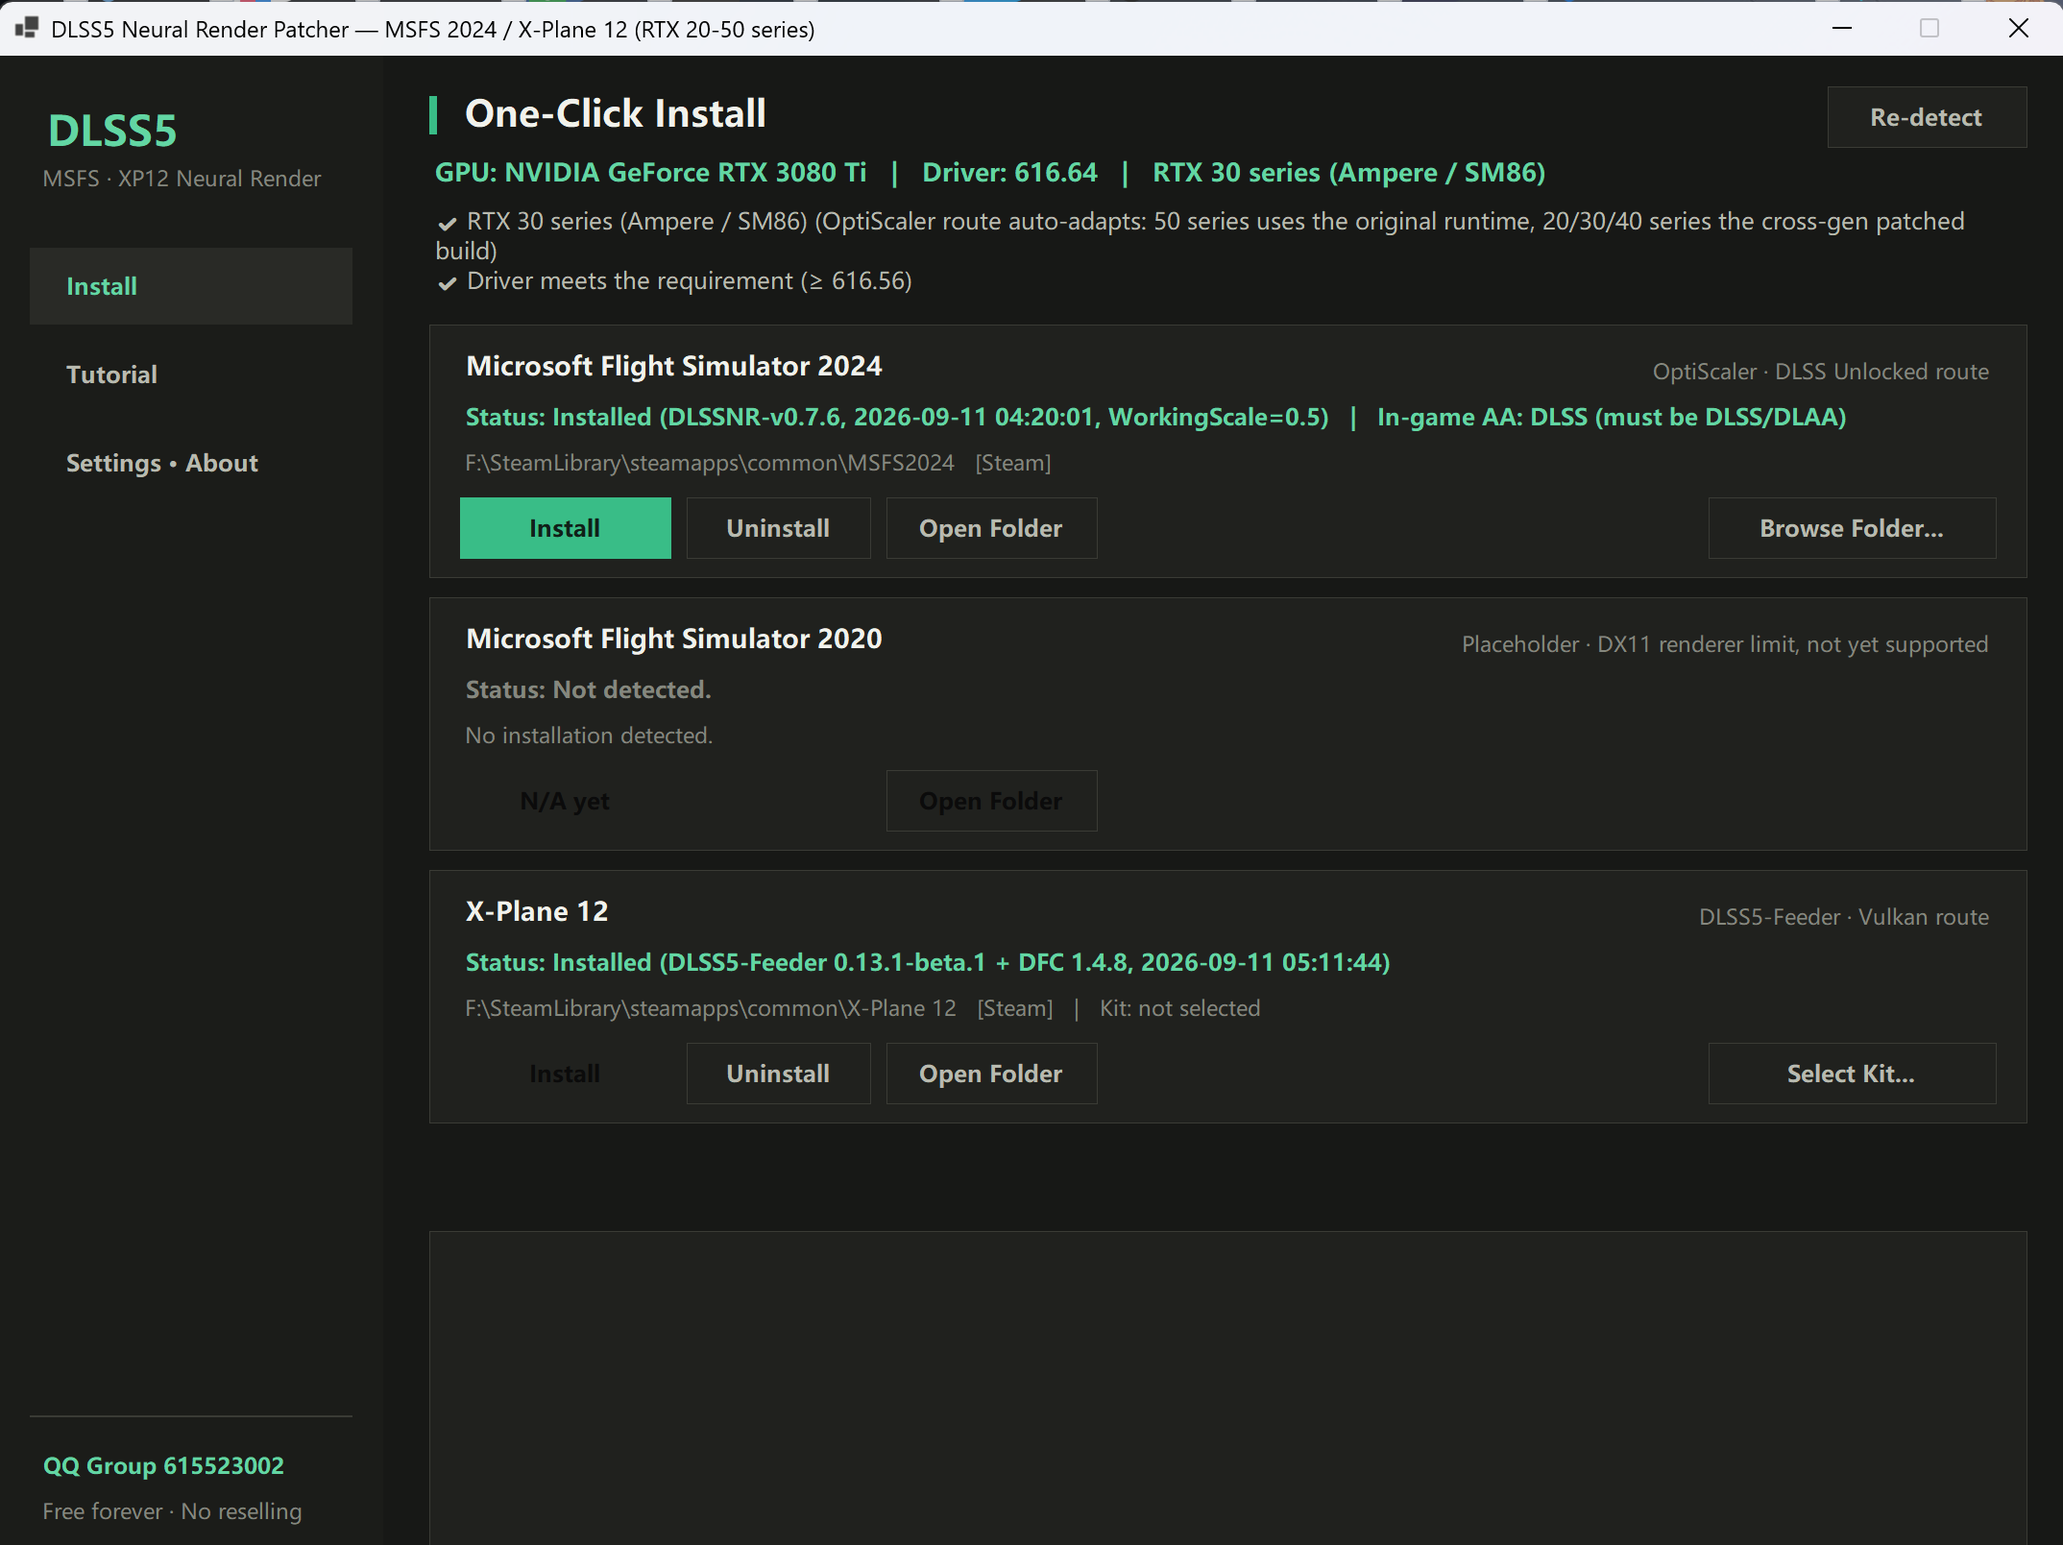
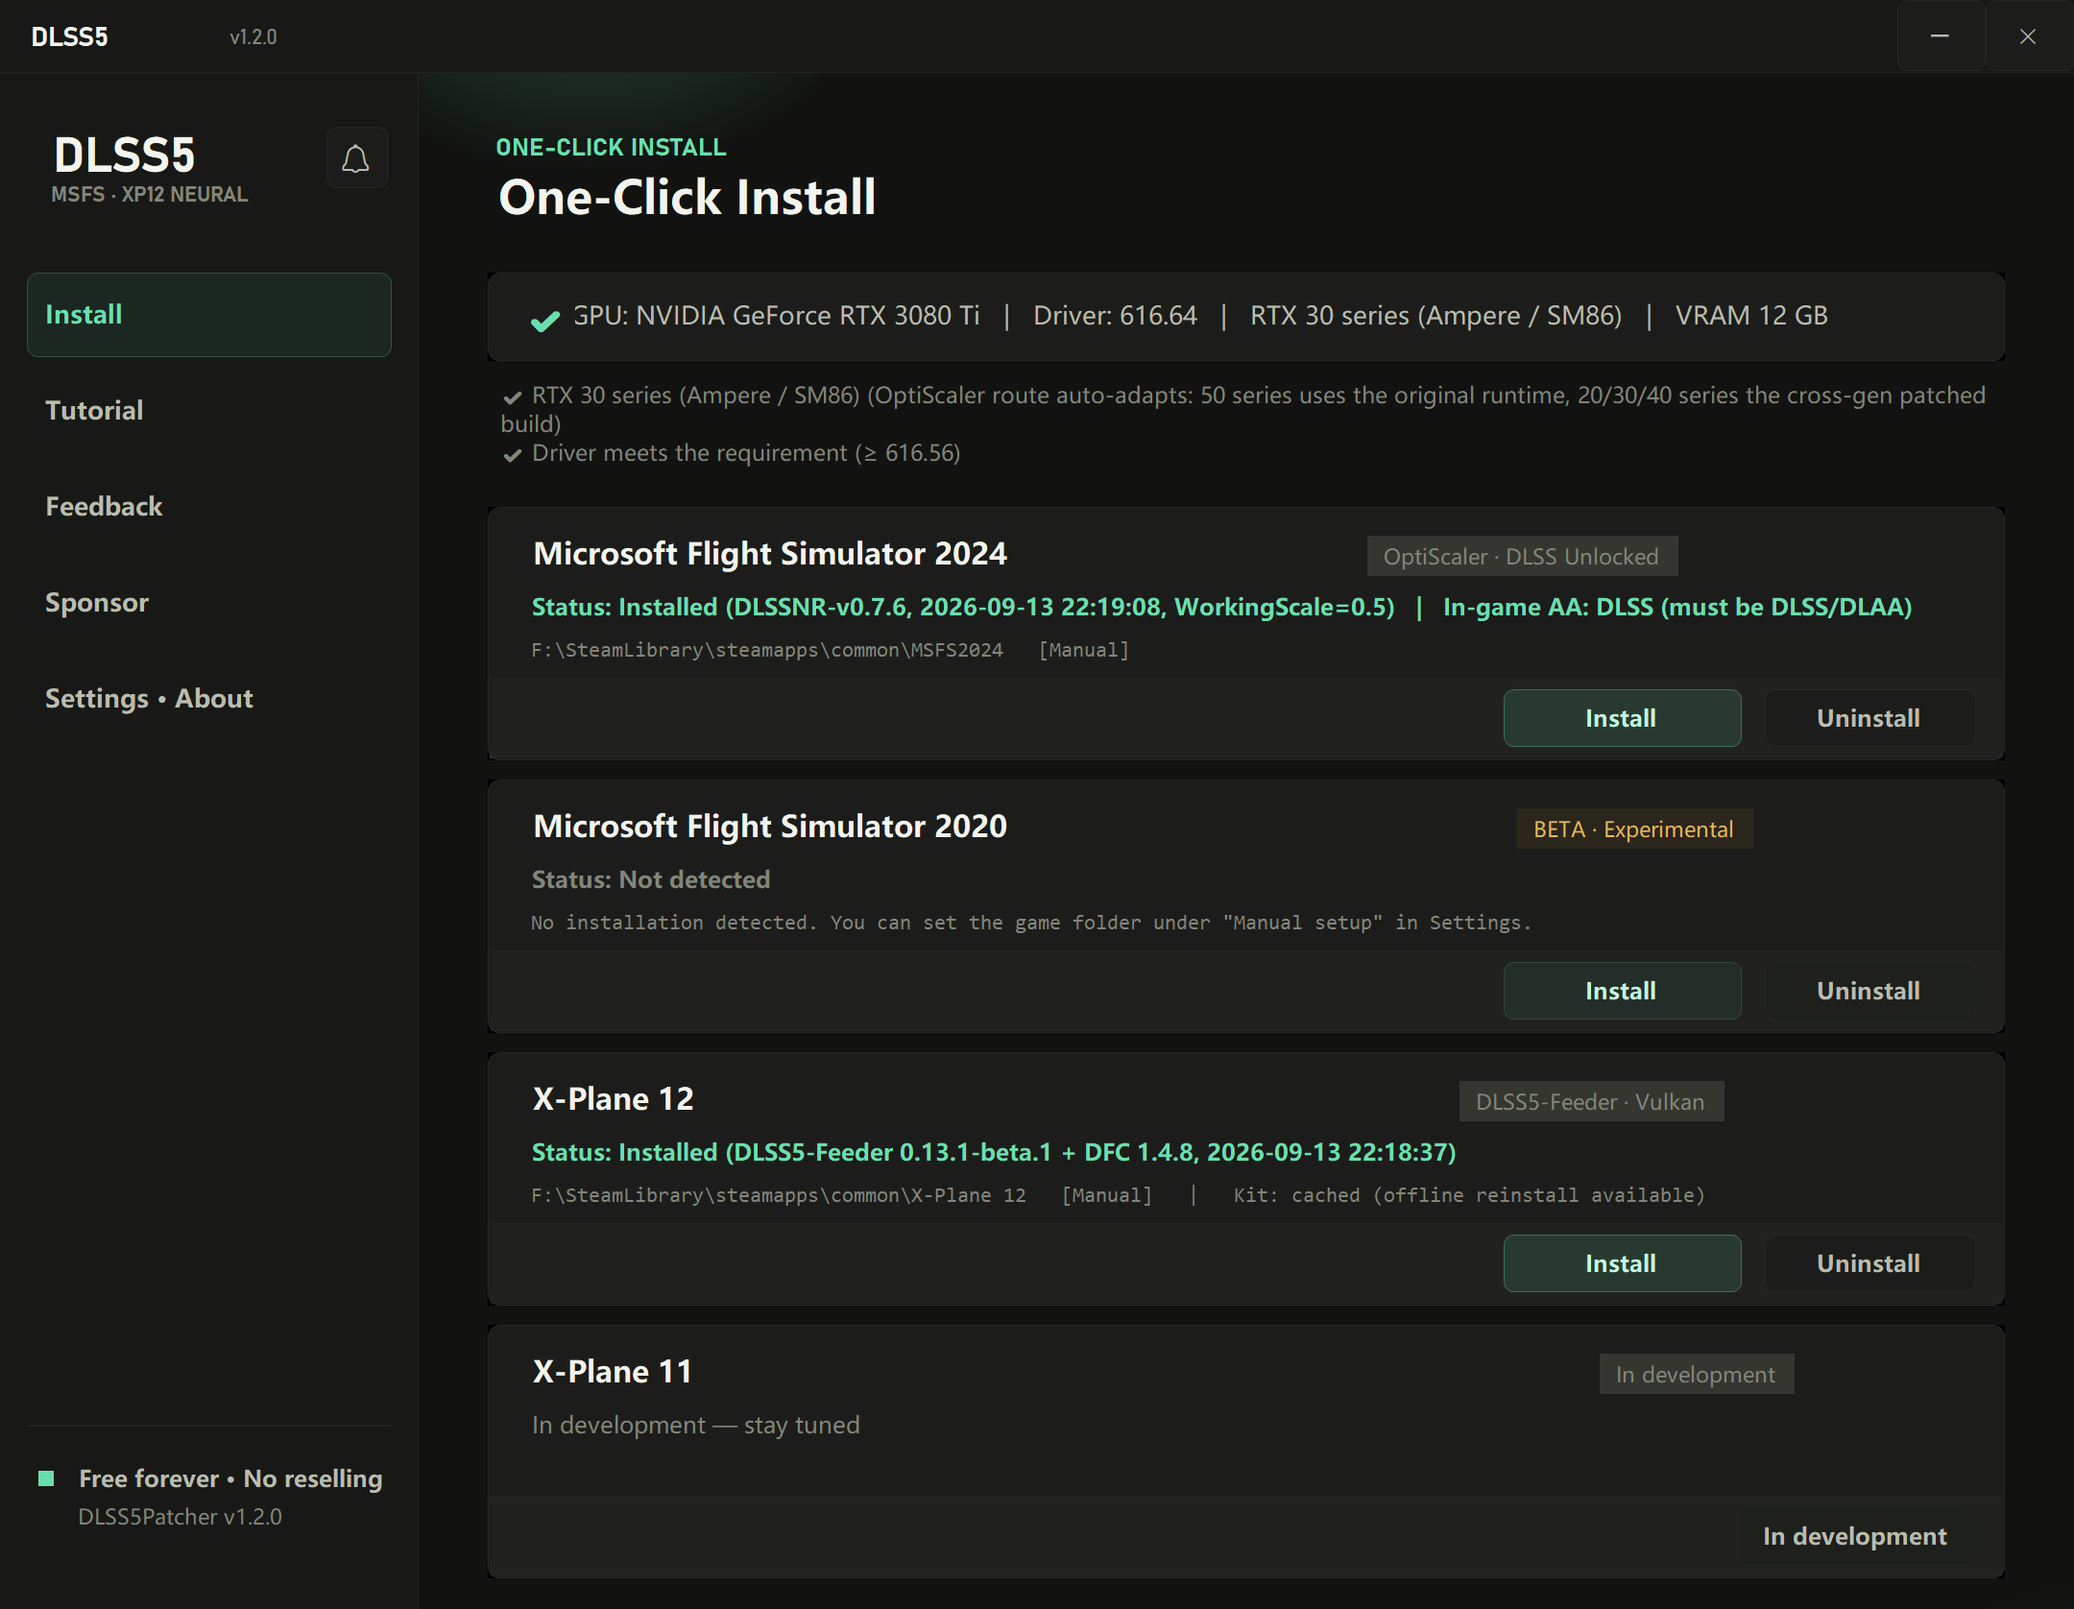
v1.2.0: refresh READMEs with new screenshots + feedback/announcements features; hidden DLSS5_STARTUP_PAGE env for doc captures

diff --git a/src/DLSS5Patcher/MainForm.cs b/src/DLSS5Patcher/MainForm.cs
@@ -71,6 +71,10 @@ public sealed class MainForm : Theme.DpiScaledForm
         WireEvents();
 
         SelectNav(0);
+        // 隐藏调试入口：DLSS5_STARTUP_PAGE=N 直接以第 N 页启动（文档截图用，不进 CLI）
+        if (int.TryParse(Environment.GetEnvironmentVariable("DLSS5_STARTUP_PAGE"), out var startPage)
+            && startPage is >= 0 and <= 5)
+            SelectNav(startPage);
         _ = RefreshAsync();
 
         Updater.CleanLeftovers();

diff --git a/README.en.md b/README.en.md
@@ -10,20 +10,32 @@ English | [简体中文](README.md)
 
 ---
 
-Official DLSS neural rendering (transformer models + Neural Rendering) ships only with RTX 50 series. This project brings the **neural-rendering pass** to every RTX GPU from the 20-series up, packaged as a **bilingual (Chinese/English), single-EXE, portable** patcher.
+Official DLSS neural rendering (transformer models + Neural Rendering) ships only with RTX 50 series. This project brings the **neural-rendering pass** to every RTX GPU from the 20-series up, packaged as a **bilingual (Chinese/English), single-EXE, portable** patcher. It ships with an **in-app feedback system** (query status by feedback code), **announcements**, a detailed **tutorial** and **auto-update**.
 
 ![Home](docs/screenshots/home-en.png)
 
 ## ✨ Features
 
 - 🎮 **Three game cards**: MSFS 2024 / MSFS 2020 (Beta) / X-Plane 12 — each card keeps just two buttons: Install and Uninstall
+- 🆘 **In-app feedback**: run log + install manifests are attached automatically, screenshots and a username optional; you get a feedback code (auto-copied) to track status and read the admin reply anytime
+- 📢 **Announcement system**: announcements page + startup popups for critical notices
 - 🌐 **Bilingual UI**: pick your language on first launch, switch anytime in Settings
-- 📦 **Ultra-lightweight + server distribution**: the app itself is only ~70MB (zero embedded packages); installs auto-download packages from our own server (server → GitHub → mirror failover, resumable transfers, SHA256-verified), cached locally for offline reinstalls
-- 🔄 **Auto-update**: checks GitHub Releases on launch and force-updates when a new version exists (mirror fallback + slow-transfer watchdog for both check and download, SHA256-verified, automatic swap & restart)
-- 🖥 **Dark card-style UI**, native WinForms single EXE (~510 MB, self-contained), high-DPI / 4K ready
+- 📦 **Ultra-lightweight + server distribution**: the app itself is only ~72MB (zero embedded packages); installs auto-download packages from our own server (server → GitHub → mirror failover, resumable transfers, SHA256-verified), cached locally for offline reinstalls
+- 🔄 **Auto-update**: force-updates when a new version exists (multi-source download, SHA256-verified, slow-transfer watchdog, automatic swap & restart)
+- 🖥 **Dark card-style UI**, native WinForms single EXE (~72MB, self-contained); drag freely between monitors with different DPI scales — window size and fonts adapt
 - 🔒 **Safe & reversible**: installs back up every modified file and config; uninstall restores everything — saves and add-ons are never touched
 - 🧠 **Per-GPU-generation auto-tuning** of the NR runtime and defaults; RTX 50 series automatically gets NVIDIA's original runtime
 - 🧰 **GUI + CLI** in one binary (script/CI friendly)
+
+## 🖼 Screenshots
+
+| Tutorial | Feedback |
+|---|---|
+| ![Tutorial](docs/screenshots/tutorial-zh.png) | ![Feedback](docs/screenshots/feedback-zh.png) |
+
+| Settings · About | Announcements |
+|---|---|
+| ![Settings](docs/screenshots/settings-en.png) | ![Announcements](docs/screenshots/announcements-zh.png) |
 
 ## 🎮 Supported games & routes
 
@@ -36,15 +48,15 @@ Official DLSS neural rendering (transformer models + Neural Rendering) ships onl
 ## 🚀 Getting started
 
 1. Download `DLSS5Patcher.exe` from [Releases](../../releases) (or build it yourself), right-click → **Run as administrator**
-2. Choose your interface language on first launch
+2. Choose your interface language on first launch and scroll through the license agreement
 3. The tool auto-detects your GPU, driver and game folders (Steam / Microsoft Store, with manual browse as a fallback)
-4. **MSFS 2024**: click Install on its card (package is embedded — no internet needed, takes about a minute)
-5. **X-Plane 12**: click Select Kit... and point it at a DLSS5-Feeder kit folder, then click Install
+4. **MSFS 2024**: click Install on its card (the ~440MB package auto-downloads on first install with multi-source failover; cached locally afterwards), takes about a minute
+5. **X-Plane 12**: just click Install (the ~150MB kit auto-downloads)
 6. Verify in game:
    - MSFS 2024: press `Insert` → OptiScaler menu → DLSS Neural Rendering should show `Running - xx ms per frame`; set the game's Anti-Aliasing to **DLSS/DLAA**
    - X-Plane 12: press `Home` → verify MotionEstimation and DLSS5_Feed are enabled → the Deep Fried Chicken tab should show `standalone neural pipeline active`
 
-> 📖 The in-app Tutorial page has detailed step-by-step instructions (including what to send the author when something goes wrong).
+> 📖 The in-app Tutorial page has detailed step-by-step instructions. Run into a problem? Use the in-app **Feedback** page — logs are attached automatically and you can track progress with your feedback code.
 
 ## ⌨ Command line
 
@@ -79,7 +91,7 @@ Official ReShade framework headers (ReShade.fxh etc.) are added automatically by
 - XP12: motion vectors are shader-estimated — fast camera moves show brief ghosting
 - XP12 needs the `--allow_reshade` launch parameter (prevents the game from blocking the layer)
 - 8GB-VRAM cards may crash with VRAM overflow while DLSS5 is on (the game's own memory pressure): the installer auto-recommends WorkingScale by VRAM (8GB → 0.5, smaller → 0.35); lower it in Settings and reinstall if it still overflows
-- RTX 40/50 adaptation logic has not been widely verified on physical cards — feedback welcome
+- RTX 40/50 adaptation logic has not been widely verified on physical cards — report your results via the in-app Feedback page
 - ⚠ Do NOT accept the "Update available" prompt in the OptiScaler menu (the mainline build has no neural rendering)
 
 ## 🧠 How it works
@@ -103,7 +115,7 @@ Requirements: .NET 8 SDK (`net8.0-windows` + WinForms), Windows 10/11 only.
 > See `server/DEPLOY.md` for the server layout; build the XP12 kit with `tools/make_kit_zip.py` (then sync its SHA256 into `Core/PackageCatalog.cs`).
 > Override the primary source via the `DLSS5_REPO` env var or a `repo=` line in the config file (testing/emergency). Most users should simply grab a ready-made EXE from [Releases](../../releases).
 
-Code layout: `MainForm.cs` (shell + business logic), `Ui/Theme.cs` (design tokens & control factory), `Ui/HomePage.cs` (game cards + log), `Ui/TutorialPage.cs`, `Ui/AboutPage.cs`, `Ui/LanguageDialog.cs` (first-run language picker), `Core/` (installers, game locator, localization helper and config).
+Code layout: `MainForm.cs` (shell + business logic), `Ui/Theme.cs` (design tokens & control factory), `Ui/HomePage.cs` (game cards + detection), `Ui/TutorialPage.cs`, `Ui/FeedbackPage.cs` (feedback), `Ui/AnnouncementsPage.cs` (announcements), `Ui/SponsorPage.cs`, `Ui/AboutPage.cs`, `Ui/LanguageDialog.cs` (first-run language picker), `Core/` (installers, game locator, announcement/feedback clients, localization helper and config); `server/` (distribution + CMS/feedback API).
 
 ## ⚖ Statement
 

diff --git a/README.md b/README.md
@@ -10,20 +10,32 @@
 
 ---
 
-官方 DLSS 神经渲染（DLSS 4/5 transformer 模型 + Neural Rendering）只随 RTX 50 系提供。本项目通过社区方案把**神经渲染 pass** 带到 20–50 系全部 RTX 显卡，并做成一个**中文/英文双语、单 EXE、无需安装**的图形化补丁工具。
+官方 DLSS 神经渲染（DLSS 4/5 transformer 模型 + Neural Rendering）只随 RTX 50 系提供。本项目通过社区方案把**神经渲染 pass** 带到 20–50 系全部 RTX 显卡，并做成一个**中文/英文双语、单 EXE、无需安装**的图形化补丁工具。内置**问题反馈**（反馈码查询处理进度）、**公告**、**使用教程**与**自动更新**。
 
 ![首页](docs/screenshots/home-zh.png)
 
 ## ✨ 特性
 
 - 🎮 **三张游戏卡片**：MSFS 2024 / MSFS 2020（Beta 实验版）/ X-Plane 12，每张卡片只保留「一键安装」「一键卸载」，极简操作
+- 🆘 **软件内问题反馈**：自动附带运行日志与安装清单，可加截图与用户名；提交后获得反馈码（自动复制），凭码随时查询处理进度与管理员回复
+- 📢 **公告系统**：公告页 + 启动弹窗，重要提醒（如主菜单滤镜警告）精准触达
 - 🌐 **中英双语**：首次启动选择语言，设置页可随时切换
-- 📦 **极致轻量 + 服务器分发**：本体仅约 70MB（零内嵌包体）；安装时自动从自有服务器下载组件包（服务器 → GitHub → 镜像多源容灾、断点续传、SHA256 校验），下载后本地缓存、可离线重装
-- 🔄 **自动更新**：启动时自动检查 GitHub Release，发现新版本强制更新（检查与下载均带镜像兜底 + 限速看门狗，下载全程 SHA256 校验，完成后自动替换重启）
-- 🖥 **深色卡片式 UI**，原生 WinForms 单 EXE（约 510 MB，自包含），4K / 高 DPI 缩放已适配
+- 📦 **极致轻量 + 服务器分发**：本体仅约 72MB（零内嵌包体）；安装时自动从自有服务器下载组件包（服务器 → GitHub → 镜像多源容灾、断点续传、SHA256 校验），下载后本地缓存、可离线重装
+- 🔄 **自动更新**：启动时自动检查更新，发现新版本强制更新（多源下载 + SHA256 校验 + 限速看门狗，完成后自动替换重启）
+- 🖥 **深色卡片式 UI**，原生 WinForms 单 EXE（约 72MB，自包含）；多显示器不同 DPI 缩放间自由拖动，尺寸/字体自适应
 - 🔒 **安全可回滚**：安装自动备份被修改的文件与配置，卸载一键还原；卸载不影响存档与插件
 - 🧠 **按 GPU 世代自动适配** NR runtime 与默认参数；RTX 50 系自动切换 NVIDIA 原版 runtime
 - 🧰 **图形界面 + 命令行** 双模式（CI / 脚本友好）
+
+## 🖼 界面预览
+
+| 使用教程 | 问题反馈 |
+|---|---|
+| ![使用教程](docs/screenshots/tutorial-zh.png) | ![问题反馈](docs/screenshots/feedback-zh.png) |
+
+| 设置 / 关于 | 公告 |
+|---|---|
+| ![设置/关于](docs/screenshots/settings-zh.png) | ![公告](docs/screenshots/announcements-zh.png) |
 
 ## 🎮 支持游戏与路线
 
@@ -36,15 +48,15 @@
 ## 🚀 使用方法
 
 1. 前往 [Releases](../../releases) 下载 `DLSS5Patcher.exe`（或自行构建），右键**以管理员身份运行**
-2. 首次启动选择界面语言（中文 / English）
+2. 首次启动选择界面语言（中文 / English），并滚动阅读用户协议
 3. 工具自动检测 GPU、驱动与游戏目录（Steam / 微软商店均可，也可手动指定）
-4. **MSFS 2024**：直接点卡片上的「一键安装」（组件包已内置，无需联网，全程约 1-2 分钟）
-5. **X-Plane 12**：先点「选择组件包...」选中 DLSS5-Feeder 组件包目录，再点「一键安装」
+4. **MSFS 2024**：直接点卡片上的「一键安装」（首次自动下载组件包约 440MB，多源容灾；之后本地缓存可离线重装），全程约 1-2 分钟
+5. **X-Plane 12**：同样直接「一键安装」（组件包约 150MB 自动下载）
 6. 游戏内验证：
    - MSFS 2024：`Insert` 键 → OptiScaler 菜单 → DLSS Neural Rendering 应显示 `Running - xx ms per frame`；游戏抗锯齿需设为 **DLSS/DLAA**
    - X-Plane 12：`Home` 键 → 确认 MotionEstimation 与 DLSS5_Feed 已启用 → Deep Fried Chicken 标签页显示 `standalone neural pipeline active`
 
-> 📖 更详细的图文教程请看软件内「使用教程」页（含出问题时应提交的文件清单）。
+> 📖 更详细的图文教程请看软件内「使用教程」页。遇到问题？用左侧「问题反馈」直接提交（自动附带日志），凭反馈码可查询处理进度。
 
 ## ⌨ 命令行模式
 
@@ -79,7 +91,7 @@ ReShade 官方框架头文件（ReShade.fxh 等）工具会自动补齐。
 - XP12：运动矢量为着色器估算，快速移动视角有短暂重影
 - XP12 需 `--allow_reshade` 启动参数（防游戏主动屏蔽层）
 - 8GB 显存显卡开启 DLSS5 后可能爆显存崩溃（游戏自身内存压力）：安装器已按显存自动推荐 WorkingScale（8GB → 0.5，更小 → 0.35），仍溢出可在设置页手动调低后重装
-- 40/50 系自动适配逻辑未在实体卡上广泛验证，欢迎反馈
+- 40/50 系自动适配逻辑未在实体卡上广泛验证，欢迎通过软件内「问题反馈」提交实测结果
 - ⚠ OptiScaler 菜单的 "Update available" 指向主线版（不含神经渲染），**勿升级**
 
 ## 🧠 原理
@@ -103,7 +115,7 @@ dotnet publish -c Release -r win-x64 --self-contained true -p:PublishSingleFile=
 > 组件包与服务器部署见 `server/DEPLOY.md`；XP12 组件包可用 `tools/make_kit_zip.py` 从本地素材打包（SHA256 需同步写入 `Core/PackageCatalog.cs`）。
 > 环境变量 `DLSS5_REPO` 或 config `repo=` 可覆盖主源地址（测试/应急）。普通用户建议直接从 [Releases](../../releases) 下载现成 EXE。
 
-代码结构：`MainForm.cs`（外壳 + 业务逻辑）、`Ui/Theme.cs`（设计令牌与控件工厂）、`Ui/HomePage.cs`（三卡片 + 日志）、`Ui/TutorialPage.cs`、`Ui/AboutPage.cs`、`Ui/LanguageDialog.cs`（首启语言选择）、`Core/`（安装器、游戏定位、双语助手与配置）。
+代码结构：`MainForm.cs`（外壳 + 业务逻辑）、`Ui/Theme.cs`（设计令牌与控件工厂）、`Ui/HomePage.cs`（三卡片 + 检测）、`Ui/TutorialPage.cs`、`Ui/FeedbackPage.cs`（问题反馈）、`Ui/AnnouncementsPage.cs`（公告）、`Ui/SponsorPage.cs`、`Ui/AboutPage.cs`、`Ui/LanguageDialog.cs`（首启语言选择）、`Core/`（安装器、游戏定位、公告/反馈客户端、双语助手与配置）；`server/`（分发与 CMS/反馈 API）。
 
 ## ⚖ 声明
 
